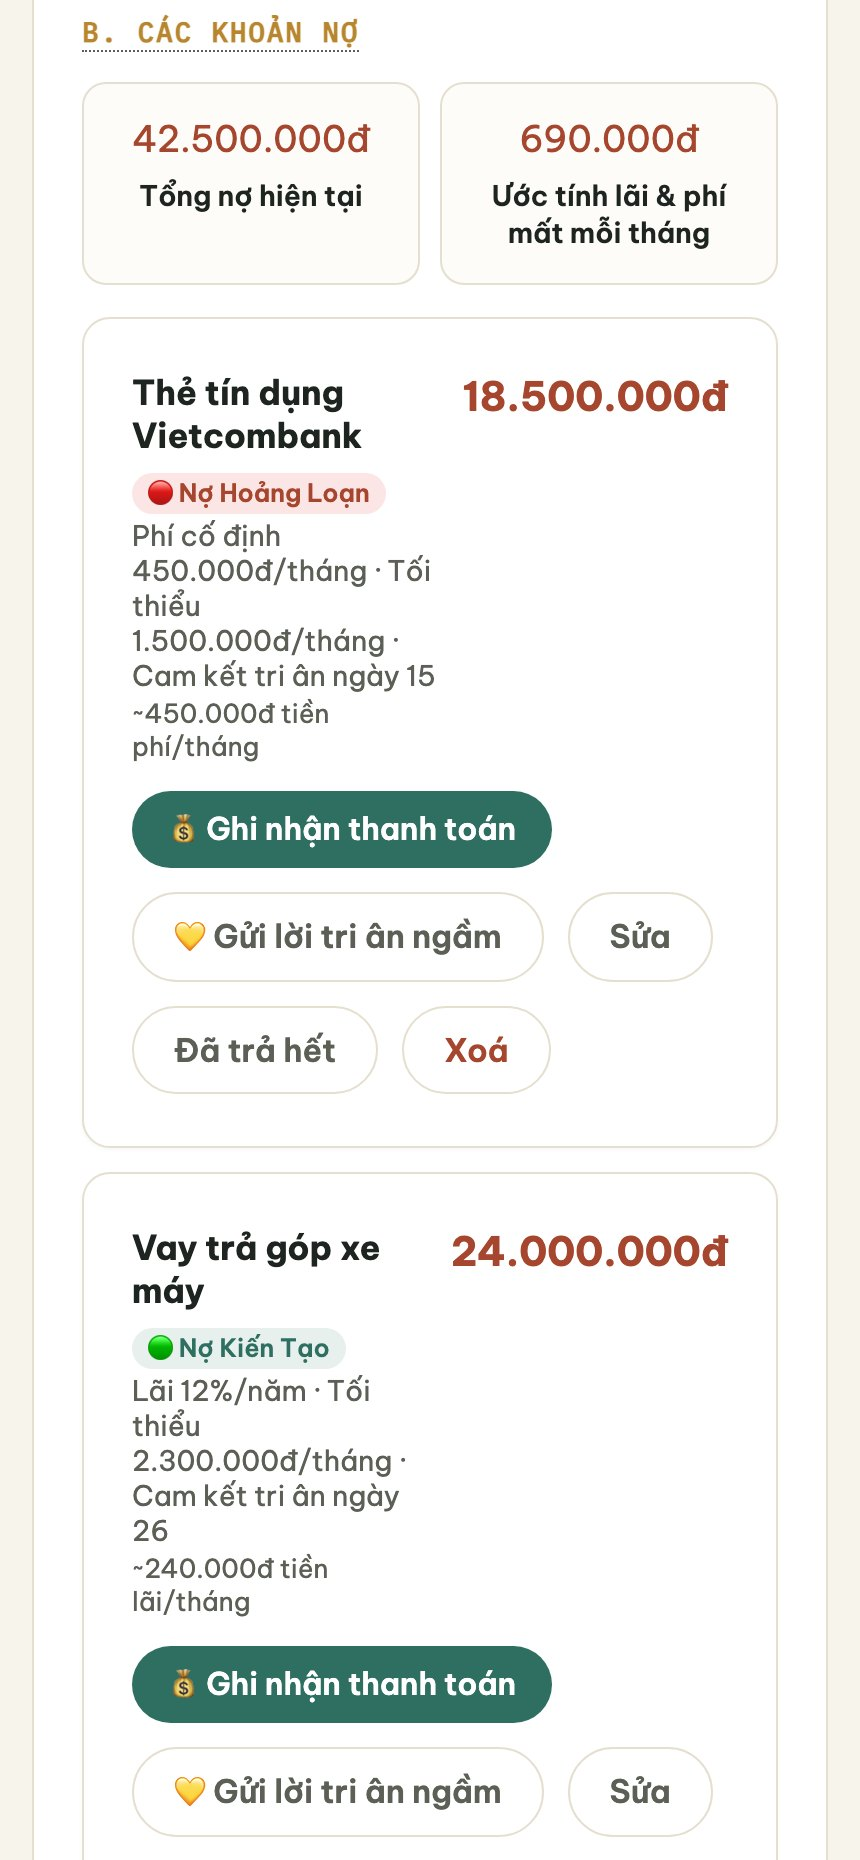
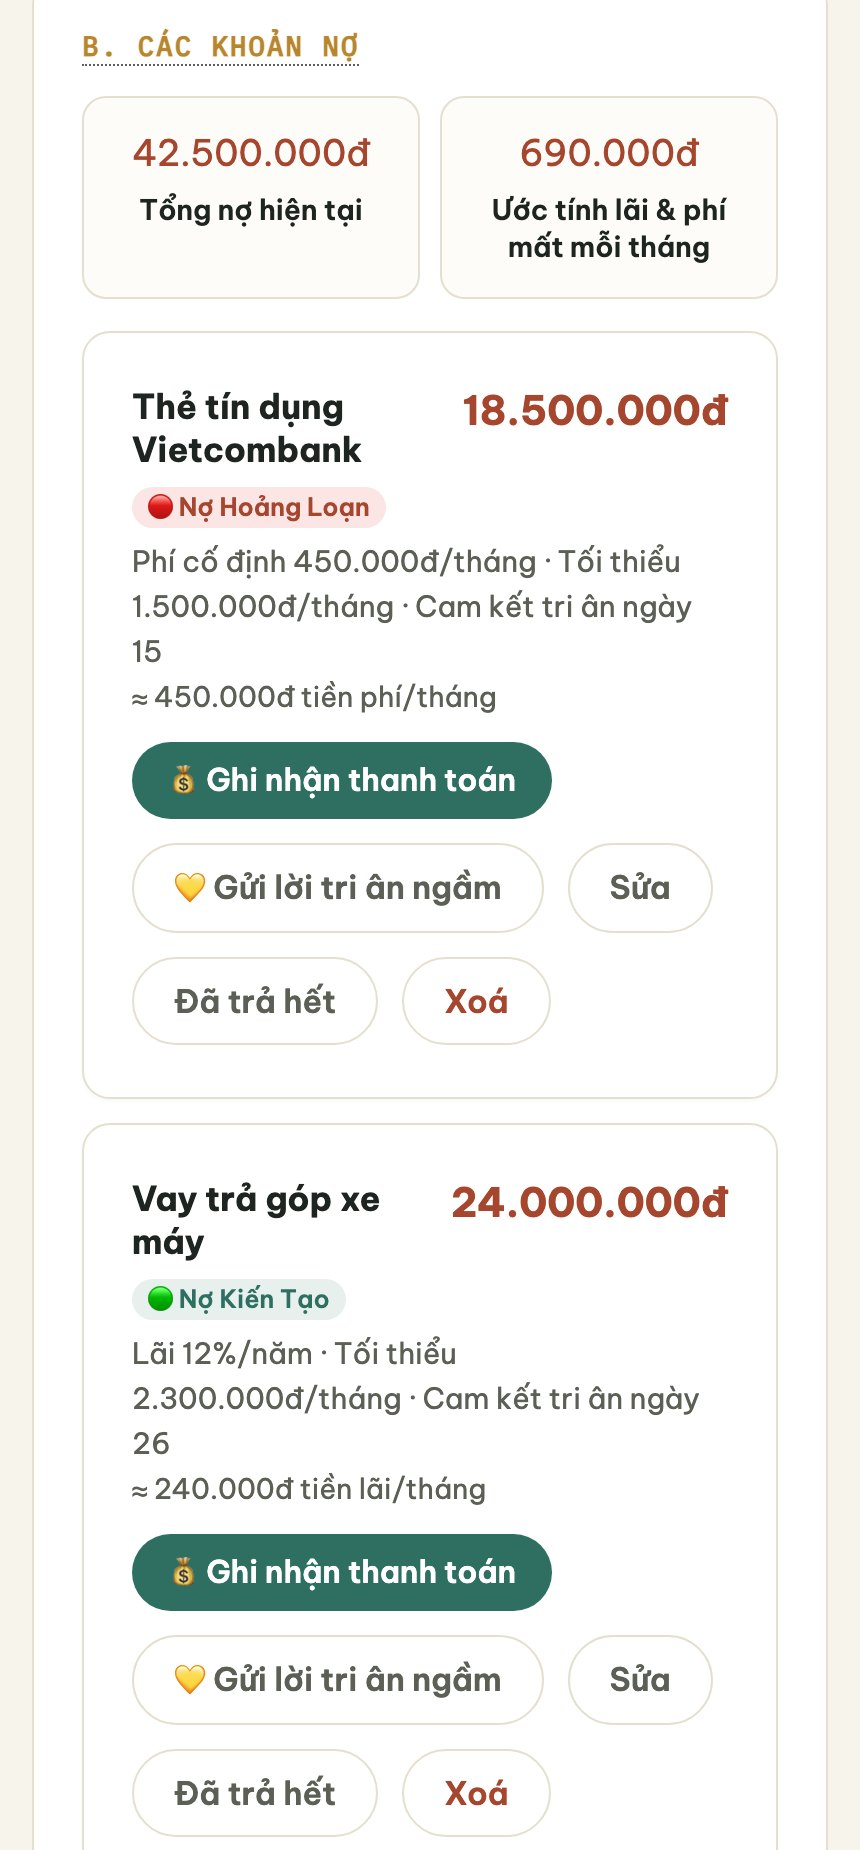
Quản Lý Nợ: sửa bố cục thẻ khoản nợ (chi tiết lãi/phí không còn bị bóp hẹp, xuống dòng vụn); chụp lại ảnh Quản Lý Nợ trên ladipage

diff --git a/tai-chinh/js/quan-ly-no.js b/tai-chinh/js/quan-ly-no.js
@@ -315,16 +315,17 @@ function render(container, ctx){
     return `
       <div class="card" style="margin-bottom:12px;">
         <div style="display:flex;justify-content:space-between;align-items:flex-start;gap:12px;">
-          <div>
+          <div style="flex:1;min-width:0;">
             <div style="display:flex;align-items:center;gap:8px;flex-wrap:wrap;">
               <span style="font-weight:700;font-size:17px;">${esc(d.creditor_name)}</span>
               <span style="font-size:12.5px;font-weight:600;padding:2px 8px;border-radius:99px;${isGreenDebt?'background:var(--accent-soft);color:var(--accent);':'background:#FBE5E5;color:var(--danger);'}">${isGreenDebt?'🟢 Nợ Kiến Tạo':'🔴 Nợ Hoảng Loạn'}</span>
             </div>
-            <div style="font-size:14px;color:var(--ink-soft);margin-top:2px;">${costLabel} · Tối thiểu ${Number(d.minimum_payment).toLocaleString('vi-VN')}đ/tháng${d.due_day?` · Cam kết tri ân ngày ${esc(d.due_day)}`:''}</div>
-            <div style="font-size:13px;color:var(--ink-soft);margin-top:2px;">~${Math.round(monthlyInterest).toLocaleString('vi-VN')}đ ${d.cost_type === 'flat_fee' ? 'tiền phí' : 'tiền lãi'}/tháng</div>
           </div>
-          <div style="font-size:20px;font-weight:700;color:var(--danger);white-space:nowrap;">${Number(d.current_balance).toLocaleString('vi-VN')}đ</div>
+          <div style="font-size:20px;font-weight:700;color:var(--danger);white-space:nowrap;flex-shrink:0;">${Number(d.current_balance).toLocaleString('vi-VN')}đ</div>
         </div>
+        <!-- Chi tiết lãi/phí để NGOÀI hàng flex trên: trước đây nằm trong cột trái cùng số dư nên bị bóp còn nửa thẻ, xuống dòng vụn -->
+        <div style="font-size:14.5px;color:var(--ink-soft);margin-top:6px;line-height:1.55;">${costLabel} · Tối thiểu ${Number(d.minimum_payment).toLocaleString('vi-VN')}đ/tháng${d.due_day?` · Cam kết tri ân ngày ${esc(d.due_day)}`:''}</div>
+        <div style="font-size:14px;color:var(--ink-soft);margin-top:2px;">≈ ${Math.round(monthlyInterest).toLocaleString('vi-VN')}đ ${d.cost_type === 'flat_fee' ? 'tiền phí' : 'tiền lãi'}/tháng</div>
         ${d.gratitude_note ? `<div class="hint-box" style="margin-top:12px;">💛 ${esc(d.gratitude_note)}</div>` : ''}
         <div class="btn-row" style="justify-content:flex-start;margin-top:14px;">
           <span class="btn btn-sm" data-toggle-payment="${d.id}">💰 Ghi nhận thanh toán</span>
